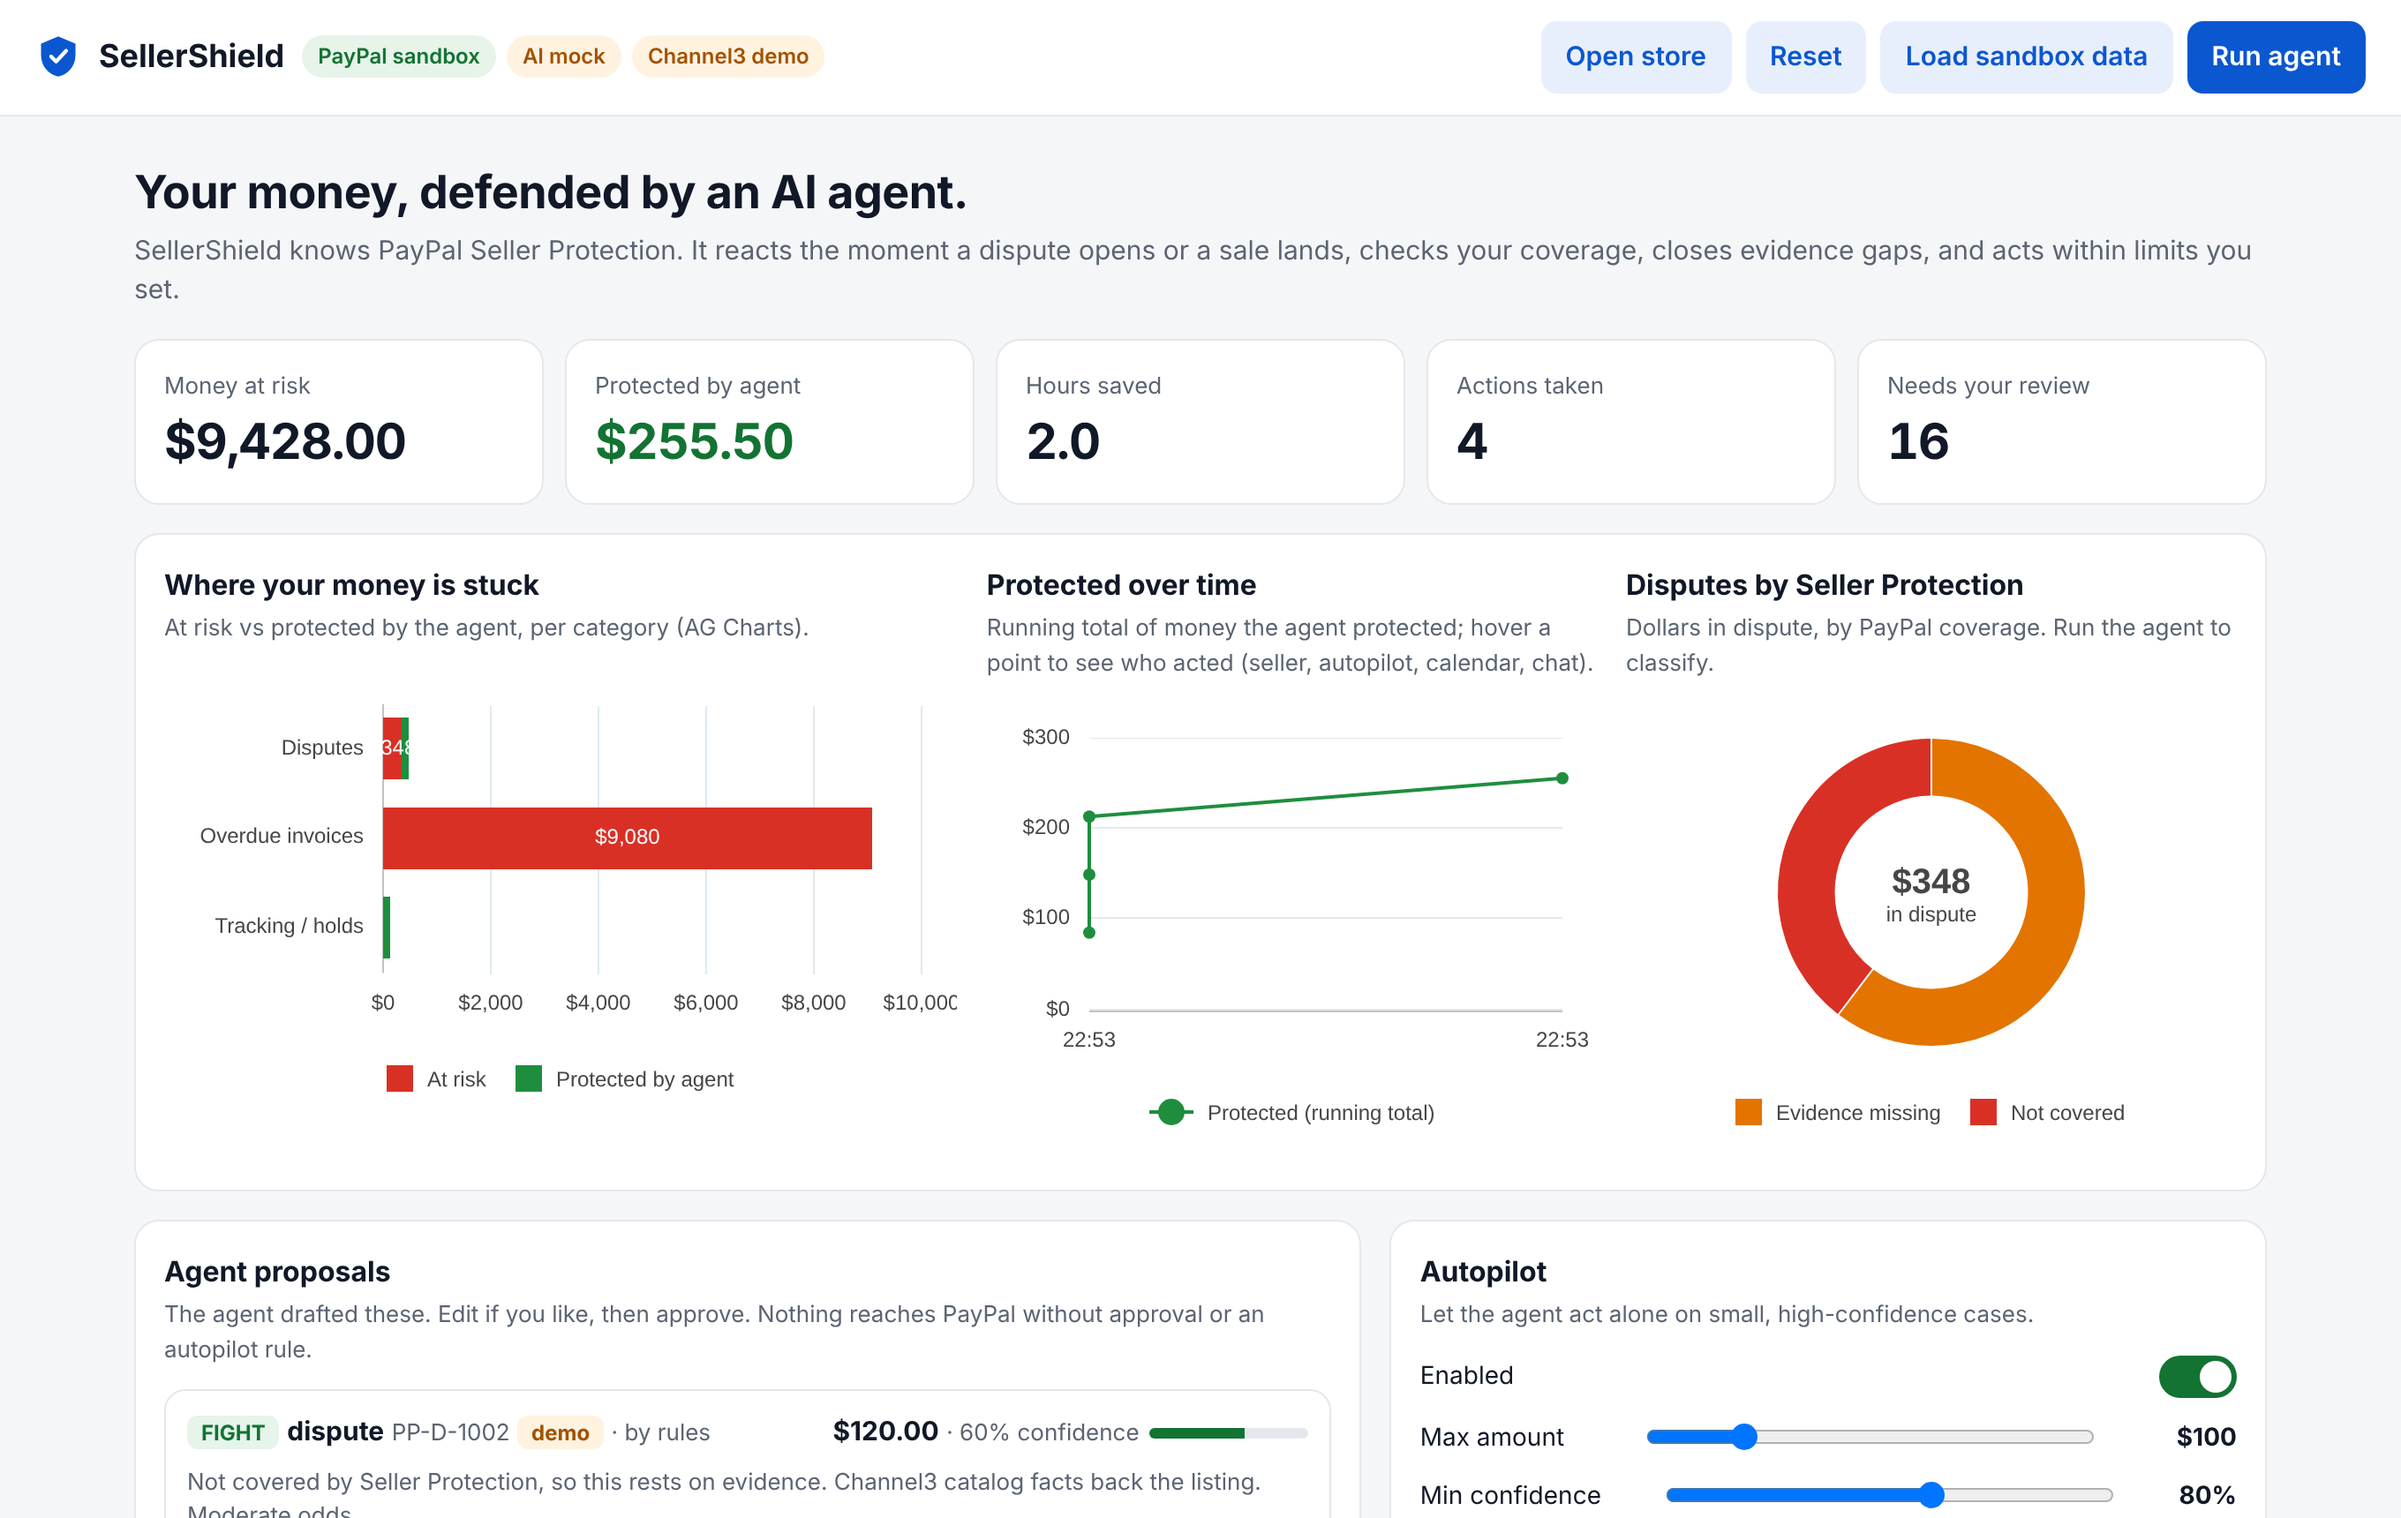
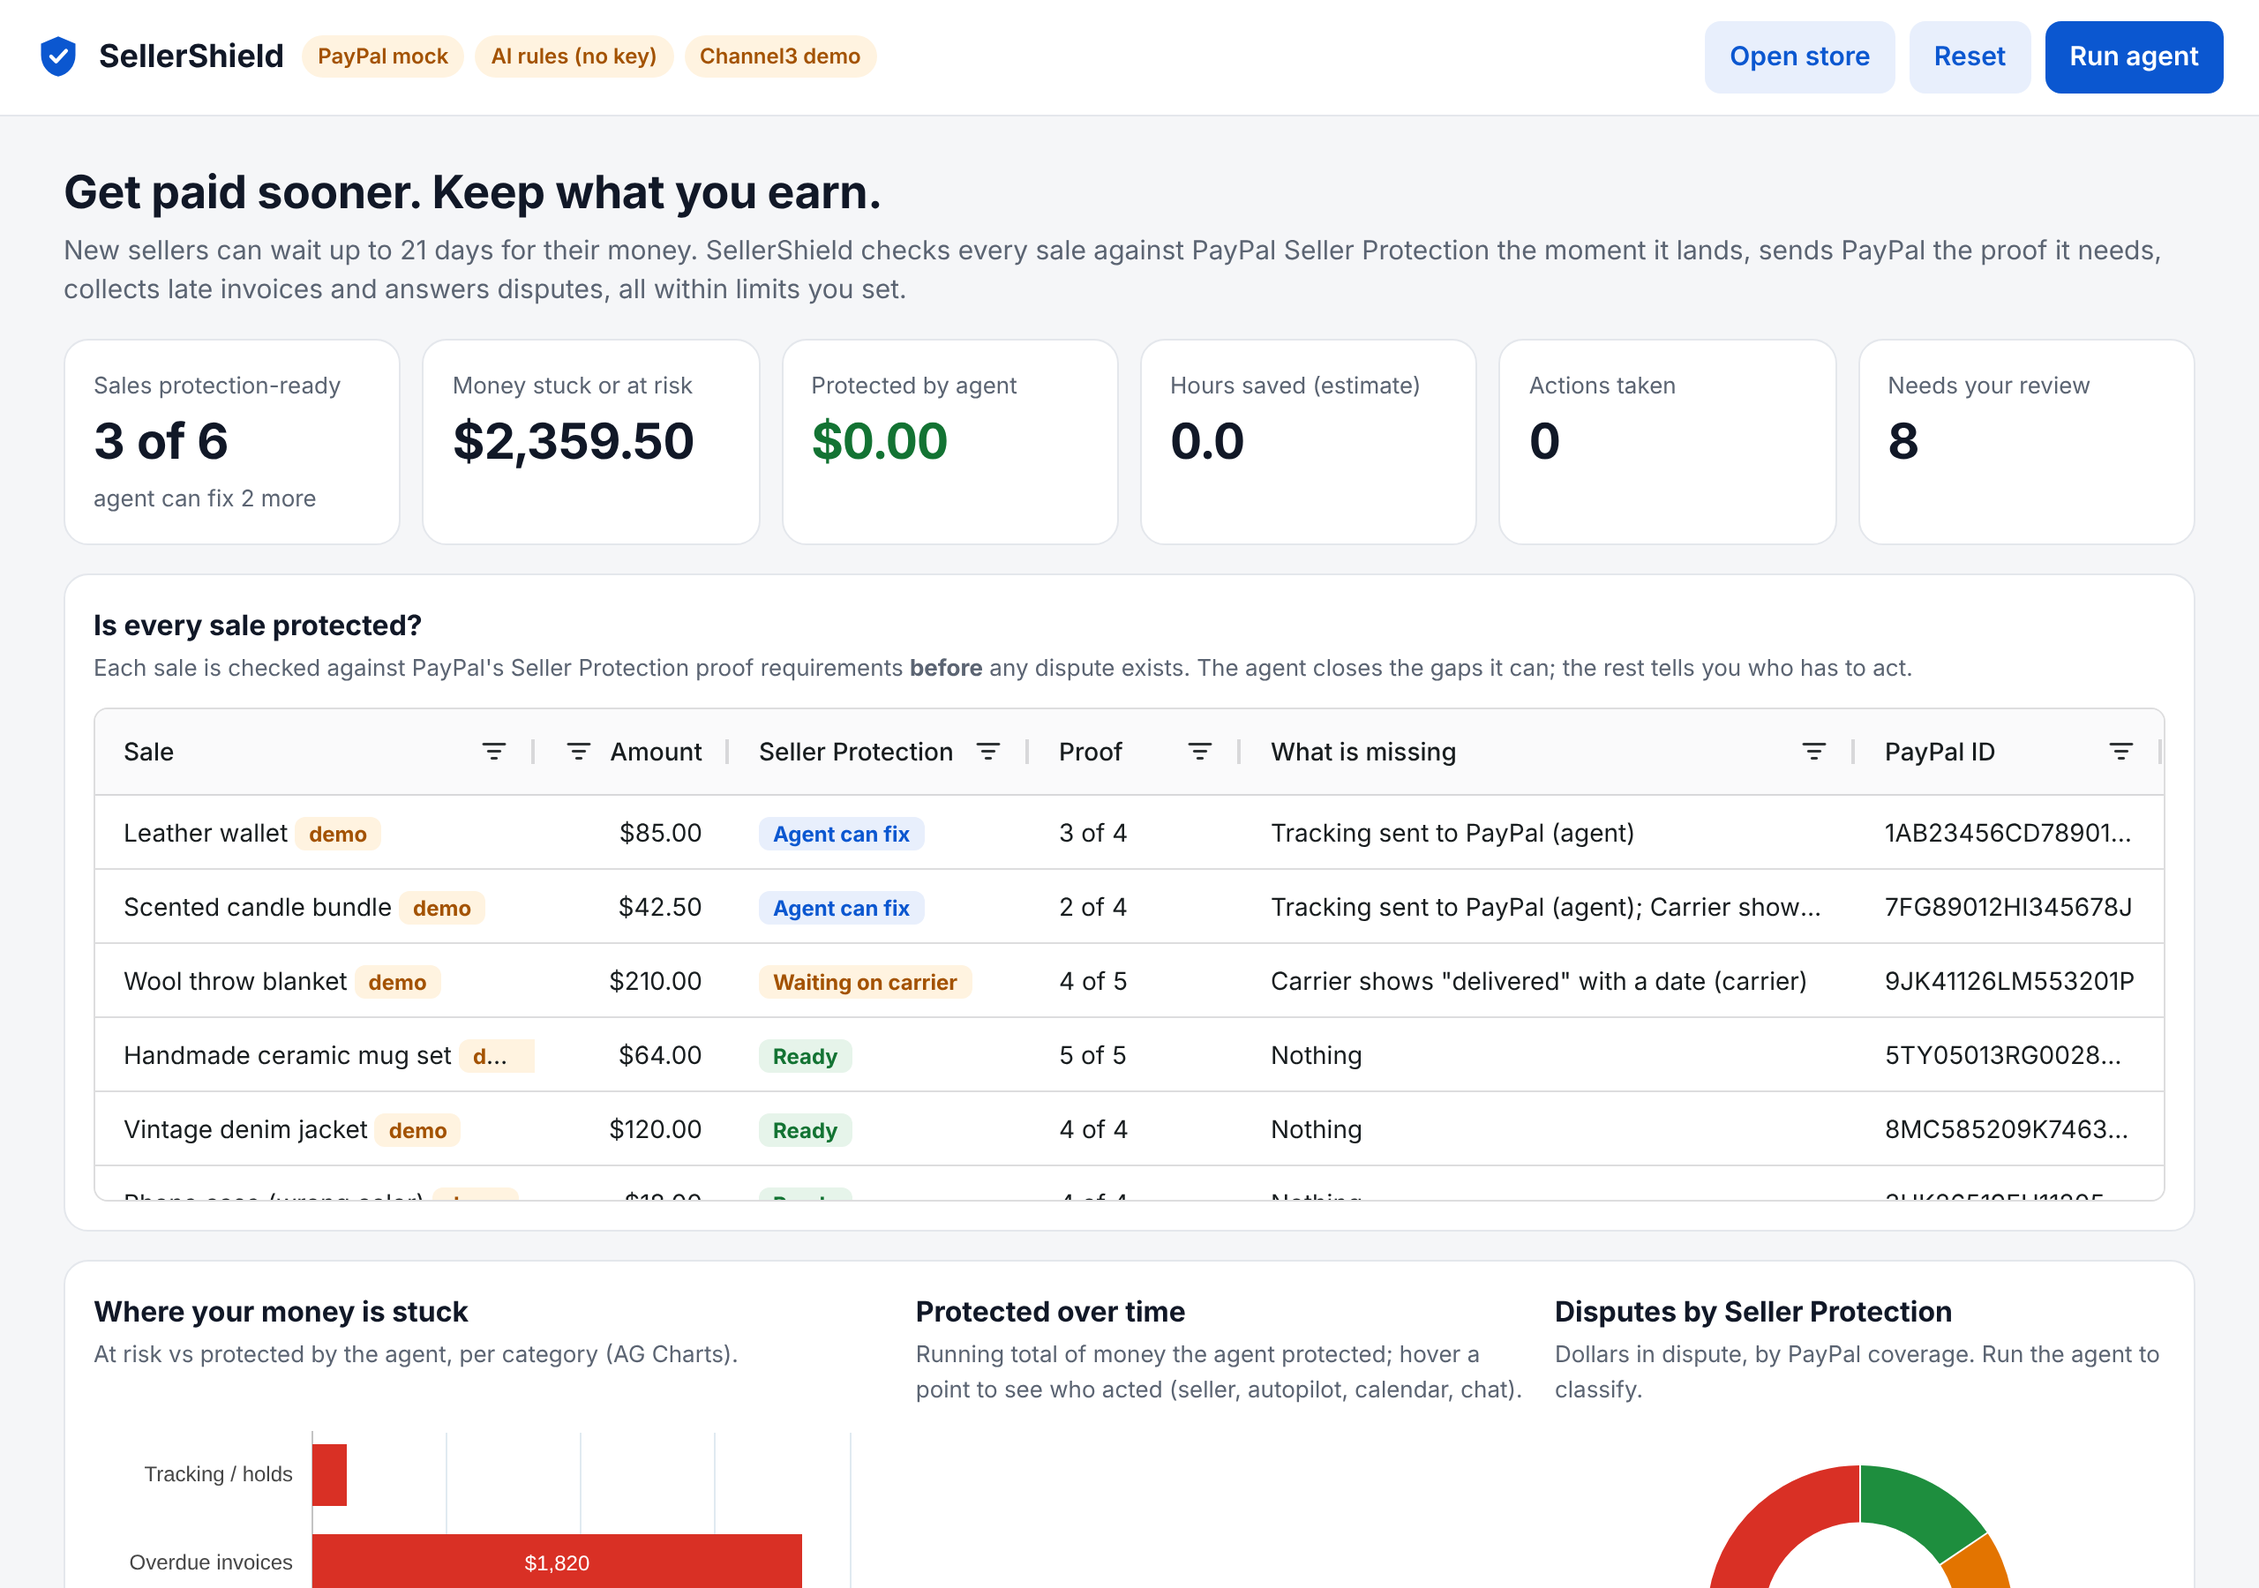
Let the chat agent report sale readiness; refresh dashboard screenshot
Add a get_protection_readiness tool for the chat agent and a quick question for it.
Test that sending tracking makes one more sale protection-ready.

Claude-Session: https://claude.ai/code/session_01BaEWRuK1KZ5618AZQTDrhP

diff --git a/lib/ai.js b/lib/ai.js
@@ -135,6 +135,7 @@ Only call execute_proposal when the seller clearly asked you to act. Say what yo
 
 const TOOL_DEFS = [
   { name: 'get_money_at_risk', strict: true, description: "List the seller's open PayPal disputes, overdue invoices and held orders with amounts.", input_schema: { type: 'object', properties: {}, additionalProperties: false } },
+  { name: 'get_protection_readiness', strict: true, description: "Check every sale against PayPal Seller Protection proof requirements before any dispute exists. Returns how many sales are ready, and for each sale its status (READY, AGENT_CAN_FIX, WAITING, AT_RISK) and what is missing.", input_schema: { type: 'object', properties: {}, additionalProperties: false } },
   { name: 'scan', strict: true, description: 'Run the review: decide an action for every dispute, invoice and hold. Returns proposals with id, decision, confidence, reasoning and draft text.', input_schema: { type: 'object', properties: {}, additionalProperties: false } },
   { name: 'execute_proposal', strict: true, description: 'Execute one proposal on PayPal (submit evidence, accept claim, send reminder or add tracking). Only when the seller asked. Guardrails still apply: drafts that fail the citation check are refused.', input_schema: { type: 'object', properties: { id: { type: 'string', description: 'proposal id from scan, e.g. "dispute:PP-D-1001"' } }, required: ['id'], additionalProperties: false } },
 ];
@@ -142,6 +143,11 @@ const TOOL_DEFS = [
 async function mockAgent(message, tools, steps) {
   const m = message.toLowerCase();
   const run = async (name, input = {}) => { steps.push({ tool: name, input }); return tools[name](input); };
+  if (/(protect|ready|covered|safe)/.test(m) && tools.get_protection_readiness) {
+    const rd = await run('get_protection_readiness');
+    const gaps = rd.rows.filter((r) => r.status !== 'READY');
+    return { reply: `${rd.ready} of ${rd.total} sales meet PayPal's Seller Protection proof requirements ($${rd.amountReady.toFixed(2)} of $${rd.amountTotal.toFixed(2)}).${gaps.length ? ' Not ready: ' + gaps.map((r) => `${r.item} (${r.checks.filter((c) => !c.pass).map((c) => c.rule.toLowerCase()).join(', ')})`).join('; ') + '.' : ''}${rd.fixable ? ` I can fix ${rd.fixable} of these by sending tracking to PayPal. Say "handle it".` : ''}`, steps };
+  }
   if (/(handle|fix|do it|go|execute|approve|all)/.test(m)) {
     const { proposals } = await run('scan');
     const safe = proposals.filter((p) => p.confidence >= 0.8 && !(p.issues || []).length);

diff --git a/test/api.test.js b/test/api.test.js
@@ -87,6 +87,25 @@ test('each visitor gets an isolated workspace', async () => {
   assert.equal((await r.json()).actions.length, 0);
 });
 
+test('readiness: sending tracking makes one more sale protection-ready', async () => {
+  await post('/api/demo/reset');
+  const risk = async () => (await fetch(URL + '/api/risk', { headers: { Cookie: cookie } })).json();
+  const before = (await risk()).readiness;
+  const { proposals } = await (await post('/api/agent/scan')).json();
+  const hold = proposals.find((x) => x.kind === 'hold' && x.target === '1AB23456CD789012E');
+  assert.equal((await post('/api/agent/approve', { id: hold.id, fingerprint: hold.fingerprint })).status, 200);
+  const after = (await risk()).readiness;
+  assert.equal(after.ready, before.ready + 1);
+  assert.equal(after.fixable, before.fixable - 1);
+});
+
+test('chat agent answers whether sales are protected', async () => {
+  await post('/api/demo/reset');
+  const r = await (await post('/api/agent/chat', { message: 'Are all my sales protected?' })).json();
+  assert.equal(r.steps[0].tool, 'get_protection_readiness');
+  assert.match(r.reply, /3 of 6 sales/);
+});
+
 test('autopilot waits for a reminder the seller rescheduled', async () => {
   await post('/api/demo/reset');
   const { proposals } = await (await post('/api/agent/scan')).json();

diff --git a/public/index.html b/public/index.html
@@ -187,6 +187,7 @@
         <h2>Ask the agent</h2>
         <p class="sub">It can look up your account and take action when you ask.</p>
         <div class="chips">
+          <button class="ghost" data-q="Are all my sales protected?">Sales protected?</button>
           <button class="ghost" data-q="What's my biggest risk right now?">Biggest risk?</button>
           <button class="ghost" data-q="Handle everything you're confident about.">Handle it</button>
         </div>

diff --git a/server.js b/server.js
@@ -346,6 +346,7 @@ app.post('/api/agent/chat', async (req, res, next) => {
   try {
     const out = await ai.agent(String(req.body.message ?? '').slice(0, 2000), {
       get_money_at_risk: getRisk,
+      get_protection_readiness: async () => readinessSummary(store.orders),
       scan: async () => ({ proposals: await scan() }),
       execute_proposal: async ({ id }) => execute(id, undefined, 'chat agent'),
     });

diff --git a/SUBMISSION.md b/SUBMISSION.md
@@ -54,7 +54,7 @@ How it works:
   Code checks that every amount, date and ID matches its cited record, and refuses to send anything that doesn't.
 - **One evidence PDF:** the response, the Seller Protection checklist and the cited records go to PayPal as one document. The seller can download it too.
 - **Approvals bound to the exact text:** every approval carries a SHA-256 fingerprint of what will be sent. Change a word and it needs a new approval. The audit log keeps the fingerprint.
-- **Measured:** 42 automated tests (`npm test`) plus a 30-case policy suite (`npm run bench`). These caught two real bugs, both fixed:
+- **Measured:** 44 automated tests (`npm test`) plus a 30-case policy suite (`npm run bench`). These caught two real bugs, both fixed:
   - the planner fought a dispute with no evidence,
   - an Approve button was wired to the wrong element.
 
@@ -96,7 +96,7 @@ The dashboard shows money at risk, money protected, hours saved and actions take
   - `lib/evidence.js` builds the citable records, checks every value in a draft against its cited record, and fingerprints the exact payload.
   - The server refuses stale fingerprints (409) and uncited facts (422).
   - Autopilot skips anything that fails these checks.
-- **Testing:** 42 automated tests (Node's test runner, mock mode, no keys), plus 30 labelled dispute cases with a runner that reports agreement for Claude or the rules fallback.
+- **Testing:** 44 automated tests (Node's test runner, mock mode, no keys), plus 30 labelled dispute cases with a runner that reports agreement for Claude or the rules fallback.
 - **Hosting:** **Render** via a `render.yaml` blueprint.
 
 ## How each sponsor tool is used

diff --git a/README.md b/README.md
@@ -174,7 +174,7 @@ PayPal's API doesn't let a seller create a dispute, but a sandbox buyer can open
 ## Tests
 
 ```bash
-npm test         # 42 tests: Seller Protection rules, sale readiness, citation checker, fingerprints, API guardrails, autopilot limits
+npm test         # 44 tests: Seller Protection rules, sale readiness, citation checker, fingerprints, API guardrails, autopilot limits
 npm run bench    # 30-case policy suite, uses Claude if ANTHROPIC_API_KEY is set
 ```
 
